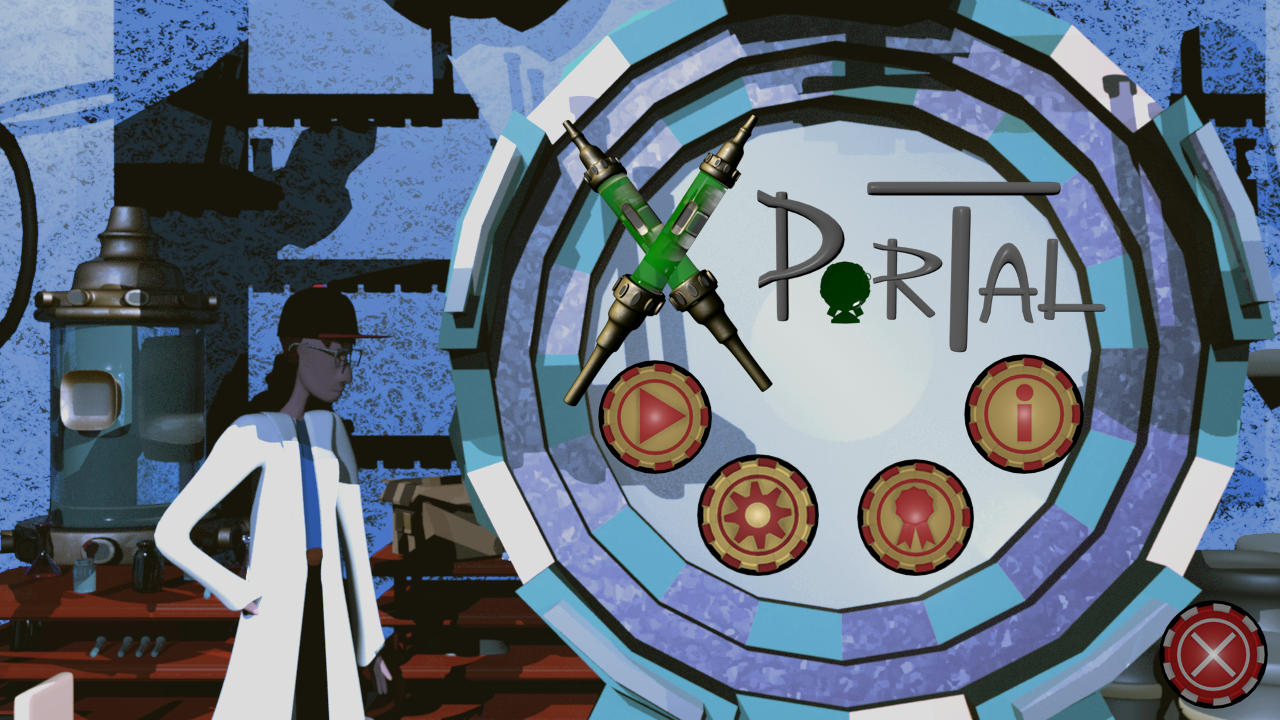
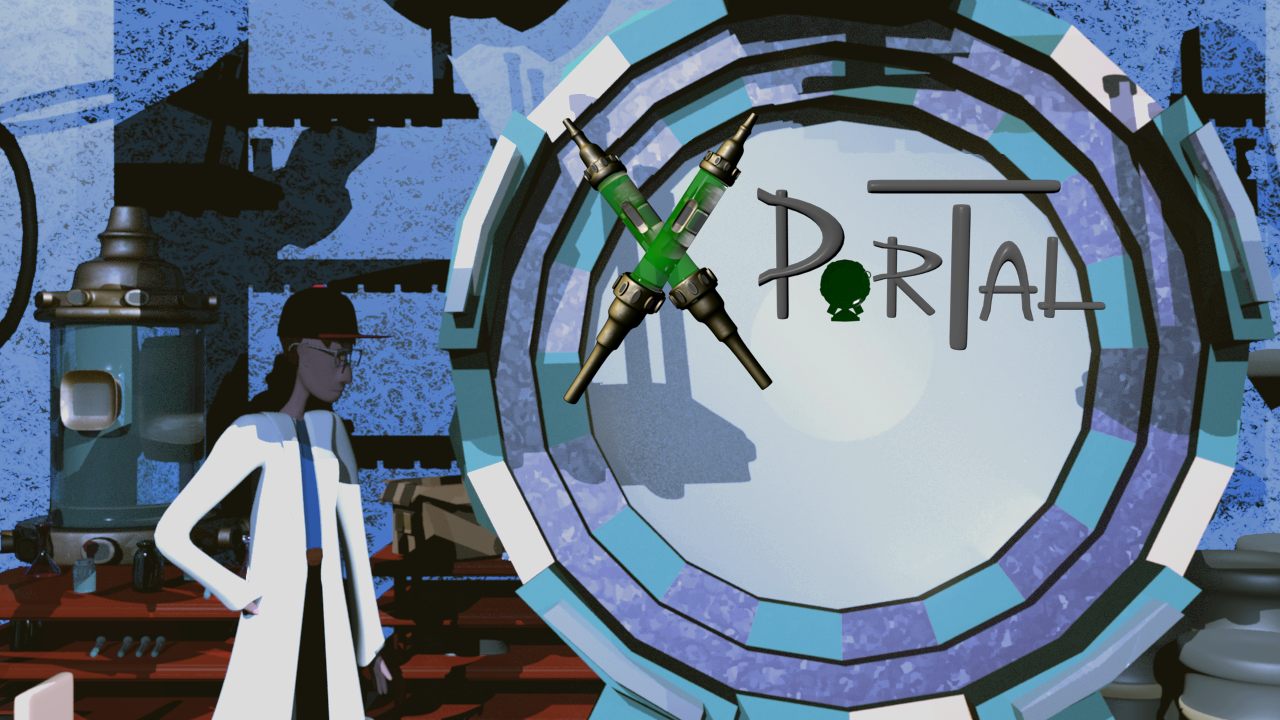
XD

diff --git a/core/src/mx/izo/xportal/PantallaJuego.java b/core/src/mx/izo/xportal/PantallaJuego.java
@@ -9,10 +9,19 @@ import com.badlogic.gdx.graphics.GL20;
 import com.badlogic.gdx.graphics.OrthographicCamera;
 import com.badlogic.gdx.graphics.Texture;
 import com.badlogic.gdx.graphics.g2d.SpriteBatch;
+import com.badlogic.gdx.graphics.g2d.TextureRegion;
 import com.badlogic.gdx.maps.tiled.TiledMap;
 import com.badlogic.gdx.maps.tiled.TiledMapTileLayer;
 import com.badlogic.gdx.maps.tiled.renderers.OrthogonalTiledMapRenderer;
 import com.badlogic.gdx.math.Vector3;
+import com.badlogic.gdx.scenes.scene2d.Actor;
+import com.badlogic.gdx.scenes.scene2d.InputEvent;
+import com.badlogic.gdx.scenes.scene2d.ui.ImageButton;
+import com.badlogic.gdx.scenes.scene2d.ui.Skin;
+import com.badlogic.gdx.scenes.scene2d.ui.Touchpad;
+import com.badlogic.gdx.scenes.scene2d.utils.ChangeListener;
+import com.badlogic.gdx.scenes.scene2d.utils.ClickListener;
+import com.badlogic.gdx.scenes.scene2d.utils.TextureRegionDrawable;
 import com.badlogic.gdx.utils.Timer;
 import com.badlogic.gdx.utils.viewport.StretchViewport;
 import com.badlogic.gdx.utils.viewport.Viewport;
@@ -68,6 +77,9 @@ public class PantallaJuego implements Screen
     // Estados del juego
     private EstadosJuego estadoJuego;
 
+    //Pad
+    private Touchpad pad;
+
     public PantallaJuego(Plataforma plataforma) {
         this.plataforma = plataforma;
     }
@@ -101,6 +113,8 @@ public class PantallaJuego implements Screen
         // Texto
         texto = new Texto();
     }
+
+
 
     // LOS RECURSOS SE CARGAN AHORA EN PantallaCargando
     /*

diff --git a/core/src/mx/izo/xportal/Plataforma.java b/core/src/mx/izo/xportal/Plataforma.java
@@ -5,6 +5,7 @@ import com.badlogic.gdx.assets.AssetManager;
 import com.badlogic.gdx.assets.loaders.resolvers.InternalFileHandleResolver;
 import com.badlogic.gdx.maps.tiled.TiledMap;
 import com.badlogic.gdx.maps.tiled.TmxMapLoader;
+import com.badlogic.gdx.scenes.scene2d.ui.Touchpad;
 
 /**
  * Created by isain on 10/11/2016.
@@ -38,4 +39,5 @@ public class Plataforma extends Game
 		super.dispose();
 		assetManager.clear();
 	}
+
 }

diff --git a/desktop/src/mx/izo/xportal/desktop/DesktopLauncher.java b/desktop/src/mx/izo/xportal/desktop/DesktopLauncher.java
@@ -8,6 +8,8 @@ import mx.izo.xportal.Plataforma;
 public class DesktopLauncher {
 	public static void main (String[] arg) {
 		LwjglApplicationConfiguration config = new LwjglApplicationConfiguration();
+		config.width = 1280;
+		config.height = 720;
 		new LwjglApplication(new Plataforma(), config);
 	}
 }

diff --git a/core/src/mx/izo/xportal/PrincipalPantalla.java b/core/src/mx/izo/xportal/PrincipalPantalla.java
@@ -1,0 +1,7 @@
+package mx.izo.xportal;
+
+/**
+ * Created by isain on 10/13/2016.
+ */
+public class PrincipalPantalla {
+}
